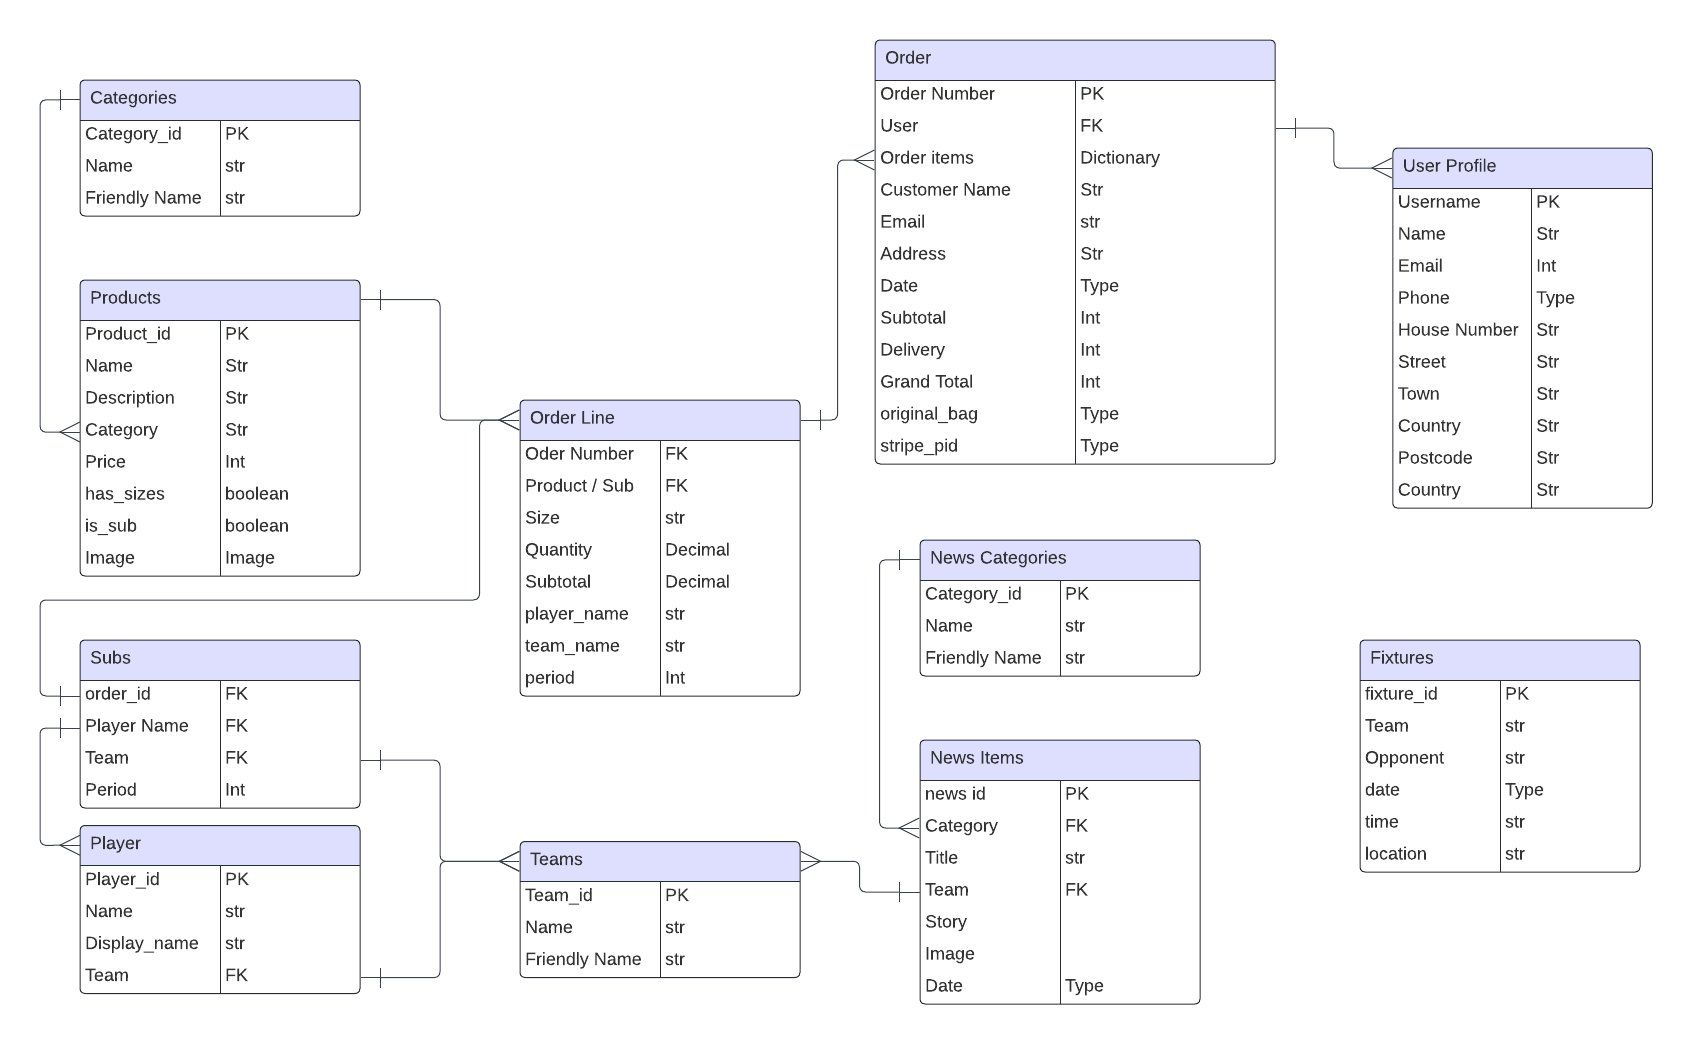
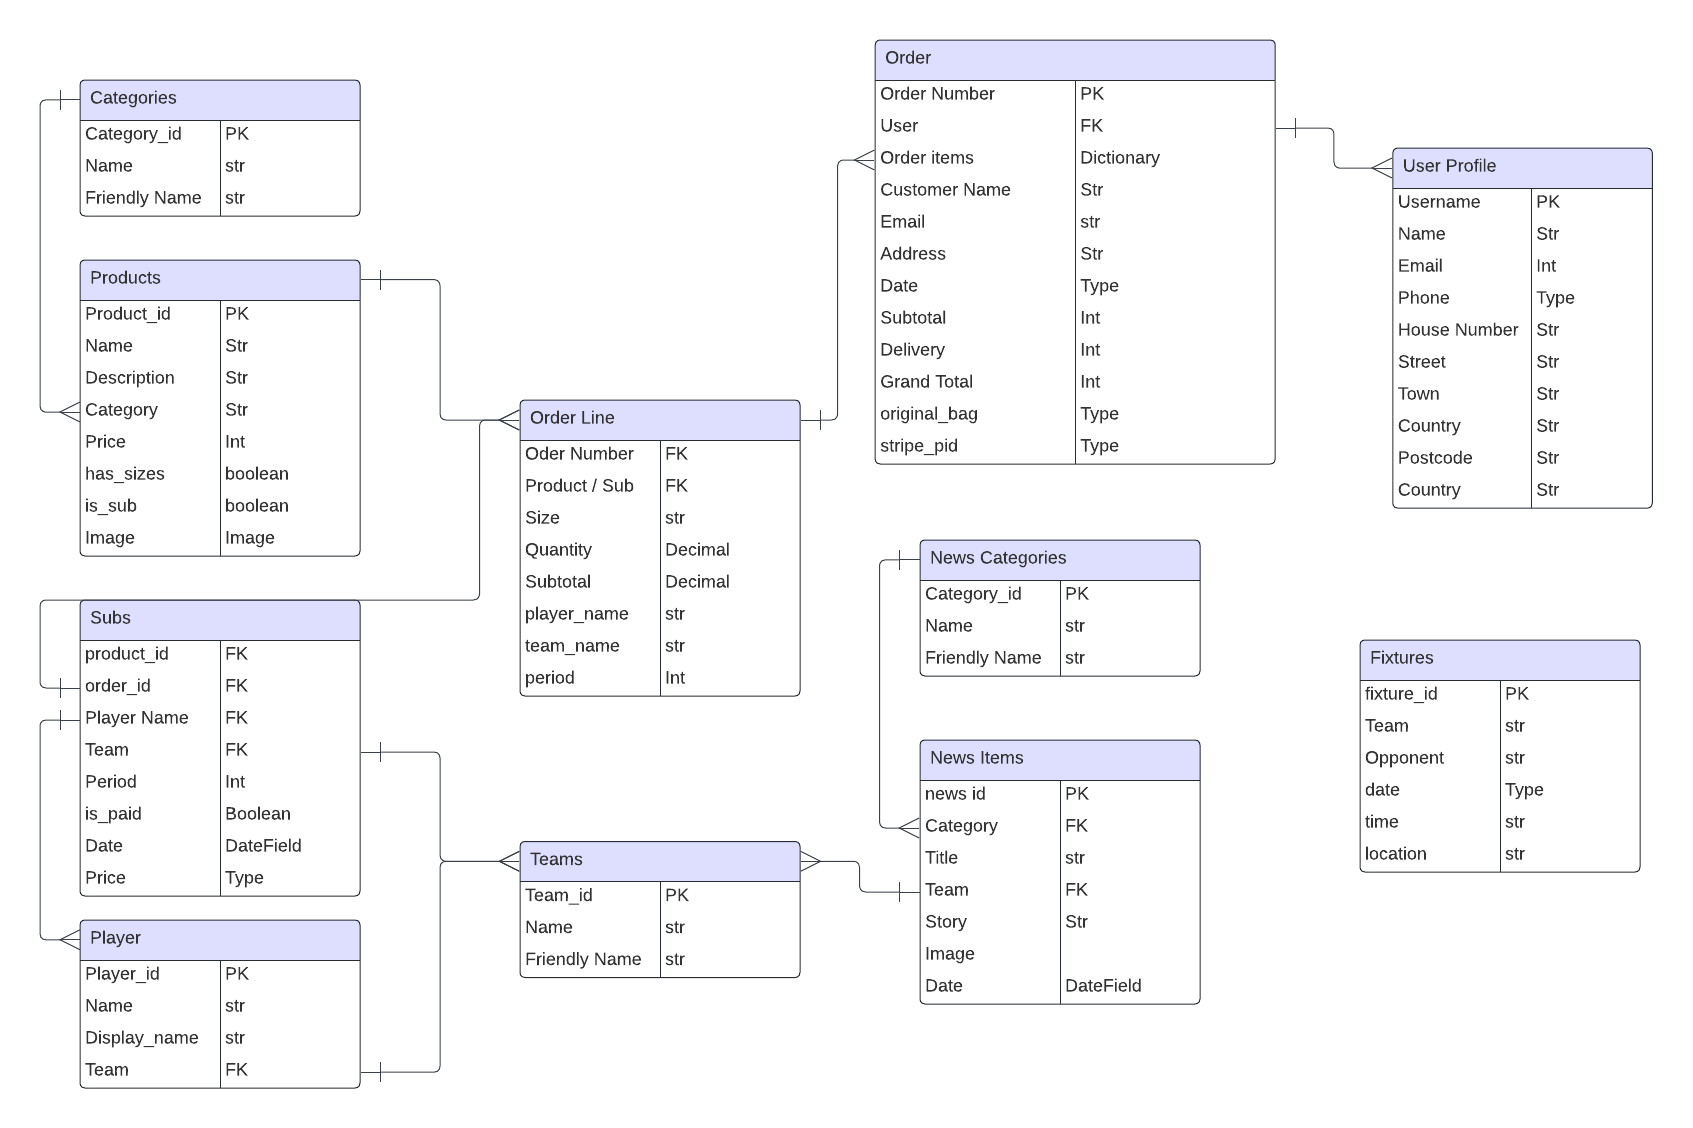
Docs: final db explination

diff --git a/README.md b/README.md
@@ -175,6 +175,8 @@ _**404/500 Error Pages:**_
 
 - User commenting on News
 - Training schedules
+- Subs payment histrory (aside from order history)
+- Subs filter by player
 
 ## UX-structure
 
@@ -202,6 +204,8 @@ _**404/500 Error Pages:**_
 **Data Structure**
 
 ![Data Structure](media/doc-images/data-model/seansdb.png)
+
+I choose to leave the Fixtures Model unrelated to the Team Model to allow for additional flexibility of Friendly and Charity Match adhoc teams. 
 
 **Security**
 
